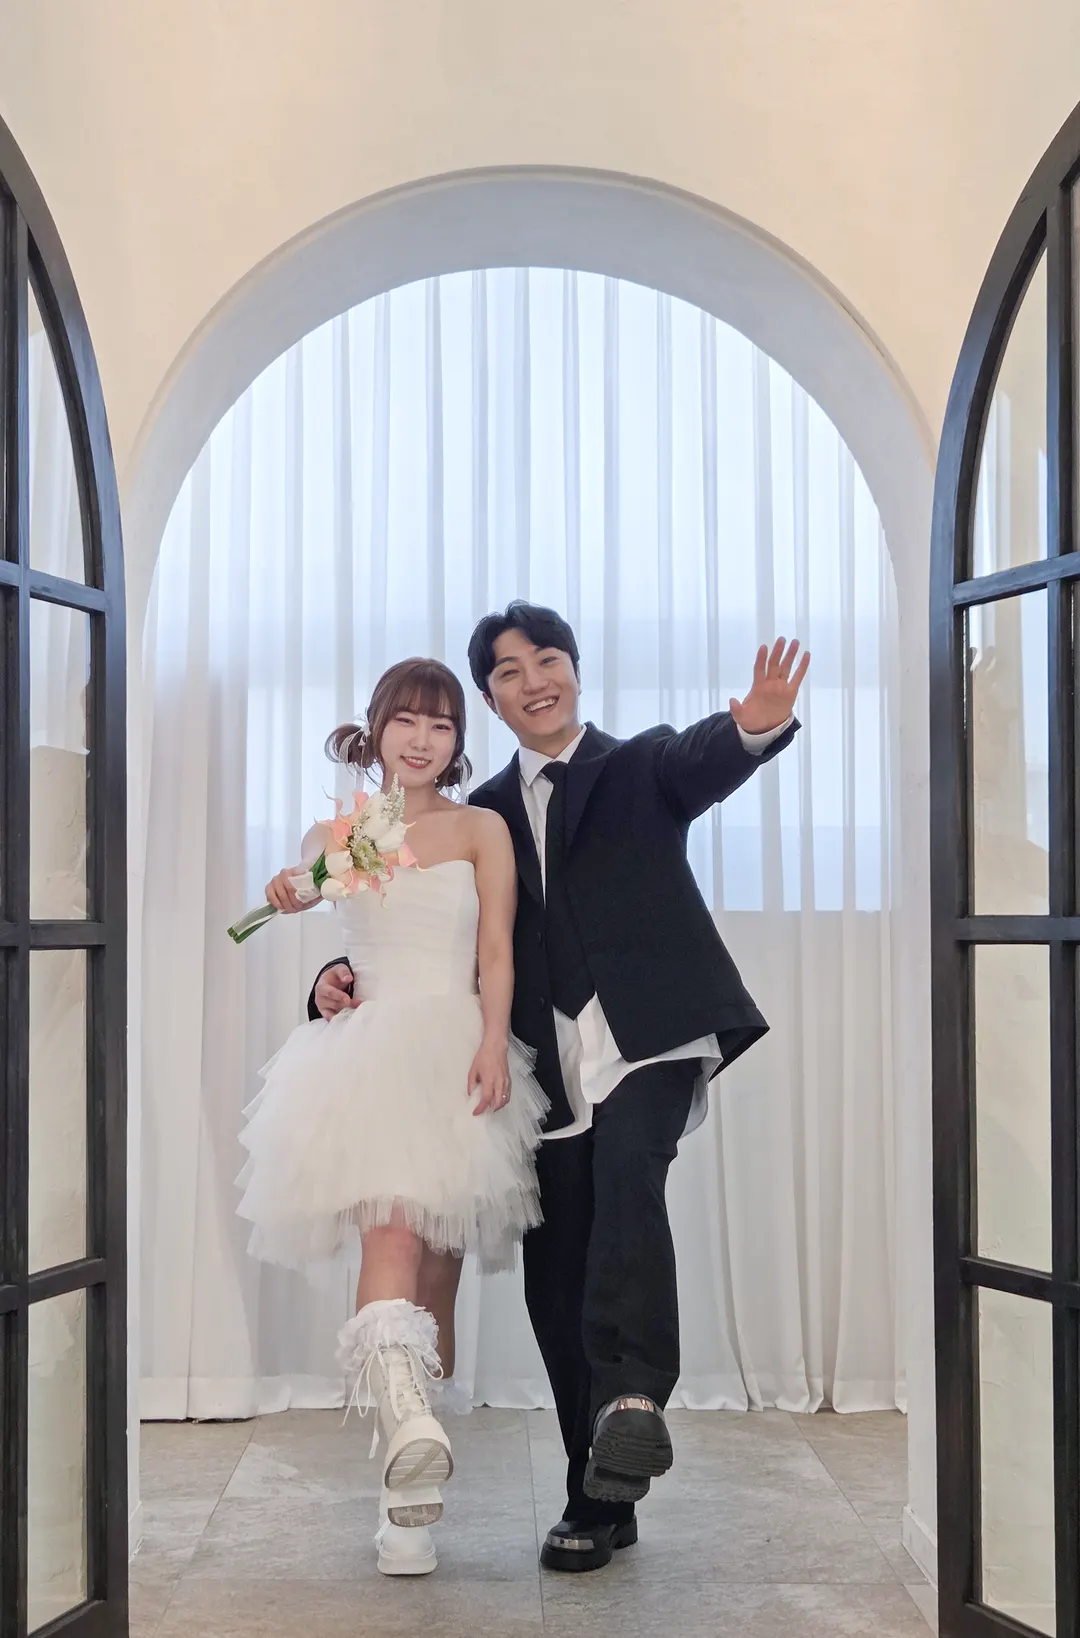
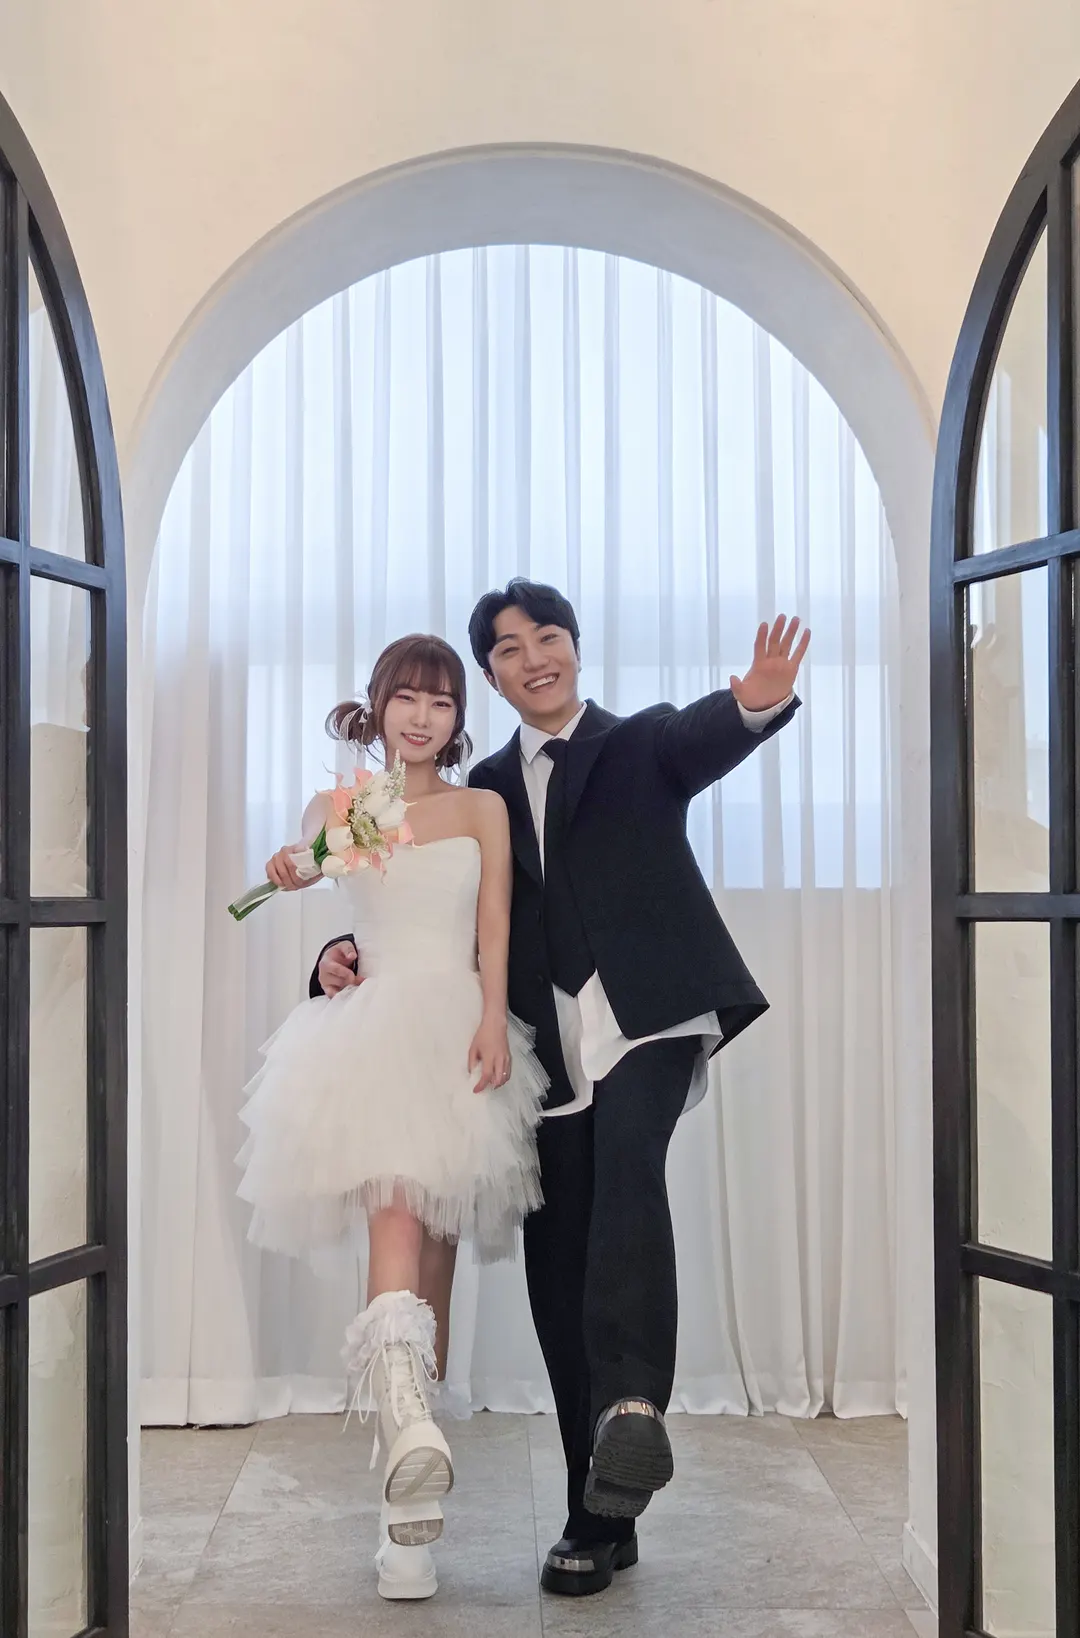
이미지 개편

diff --git a/src/sections/GallerySection.tsx b/src/sections/GallerySection.tsx
@@ -285,7 +285,7 @@ function GallerySectionBase() {
                     setActiveIdx(idx);
                     setMode("single");
                   }}
-                  className="gallery-item aspect-[3/4] overflow-hidden rounded-2xl border border-neutral-200 bg-neutral-100"
+                  className="gallery-item aspect-[3/4] overflow-hidden rounded-2xl bg-neutral-100"
                   aria-label={`open image ${idx + 1}`}
                   type="button"
                 >
@@ -321,7 +321,7 @@ function GallerySectionBase() {
           <div className="mt-6">
             <div className="mx-auto max-w-md">
               <div
-                className="relative aspect-[3/4] overflow-hidden rounded-2xl border border-neutral-200 bg-neutral-100"
+                className="relative aspect-[3/4] overflow-hidden rounded-2xl bg-neutral-100"
                 onTouchStart={onTouchStart}
                 onTouchMove={onTouchMove}
                 onTouchEnd={onTouchEnd}

diff --git a/src/sections/GiftAccountsSection.tsx b/src/sections/GiftAccountsSection.tsx
@@ -3,7 +3,7 @@ import type { WeddingConfig, AccountInfo } from "../config/wedding";
 import { Section } from "../components/Section";
 import { SectionTitle } from "../components/SectionTitle";
 import { Button } from "../components/Button";
-import { asset } from "../utils/asset";
+// import { asset } from "../utils/asset"; // 카카오페이 버튼 복구 시 함께 해제
 
 type Props = {
   data: WeddingConfig;
@@ -83,6 +83,7 @@ function AccountList({
                 </Button>
               </div>
 
+              {/* 카카오페이 버튼 — 나중에 다시 사용 예정 (주석 해제 시 상단 asset import도 함께 복구)
               {a.kakaoPayUrl ? (
                 <Button
                   variant="secondary"
@@ -100,6 +101,7 @@ function AccountList({
                   />
                 </Button>
               ) : null}
+              */}
             </div>
 
 
